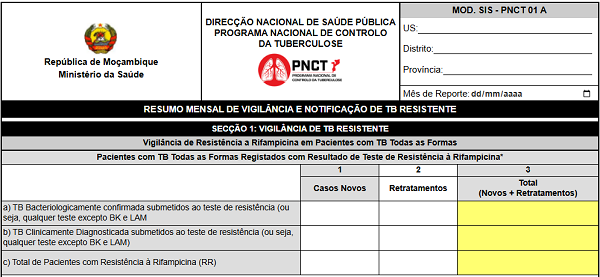
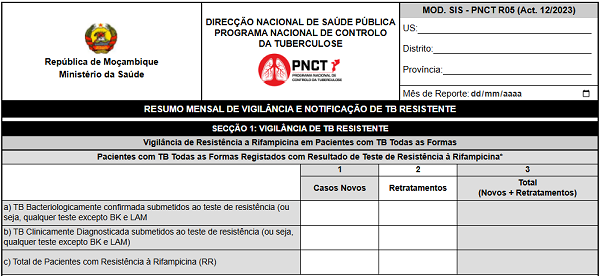
Actualizei a prévia do totalizador.

diff --git a/fisiologia/referencia.js b/fisiologia/referencia.js
@@ -1,10 +1,13 @@
 "use strict"
 const referencia = {
-    retornarIndicadorEfaixaEtaria(inputTarget) {
-        const indicadorOutput = document.querySelector(".reference__output--indicador");
-        const faixaEtariaOutput = document.querySelector(".reference__output--idade");
+    retornarLinhaEcoluna(inputTarget) {
+        const linhaOutput = document.querySelector(".reference__output--indicador");
+        const colOutput = document.querySelector(".reference__output--idade");
         const celulaComFocoEirmas = inputTarget.parentElement.children;
-        // Seccoes
+
+        let indicadorLinear = inputTarget.parentElement.querySelector("span");
+        linhaOutput.textContent = indicadorLinear.textContent;
+        /* Seccoes
         let isSection1 = inputTarget.parentElement.parentElement.matches(".ficha__seccao__body--1");
         let isSection2 = inputTarget.parentElement.parentElement.matches(".ficha__seccao__body--2");
         let isSection3 = inputTarget.parentElement.matches(".ficha__seccao__body--3");
@@ -63,7 +66,7 @@ const referencia = {
                 }
             }
             faixaEtariaOutput.textContent = faixasEtarias[celulaFocadaIndex];
-        }
+        }*/
     },
     retornarVazio() {
         const outputs = document.querySelectorAll(".reference__output");
@@ -75,7 +78,7 @@ function events() {
     inputsCelulares.forEach( inputCelular => {
         inputCelular.addEventListener("focus", () => {
             if(!inputCelular.matches("[readonly]")) {
-                referencia.retornarIndicadorEfaixaEtaria(inputCelular);
+                referencia.retornarLinhaEcoluna(inputCelular);
             }
         });
     });

diff --git a/index.html b/index.html
@@ -85,7 +85,7 @@
 					</div>
 					<div class="ficha__header__col-de-localizacao --border-l-thick">
 						<div class="ficha__col-de-localizacao__linha-mod-sis-pnct-07 --display-flex-xy-center --cor-de-fundo-padrao">
-							<span class="--fw-700">MOD. SIS - PNCT 01 A</span>
+							<span class="--fw-700">MOD. SIS - PNCT R05 (Act. 12/2023)</span>
 						</div>
 						<div class="ficha__col-de-localizacao__linha --display-flex-y-center">
 							<label for="input-us">US:</label>
